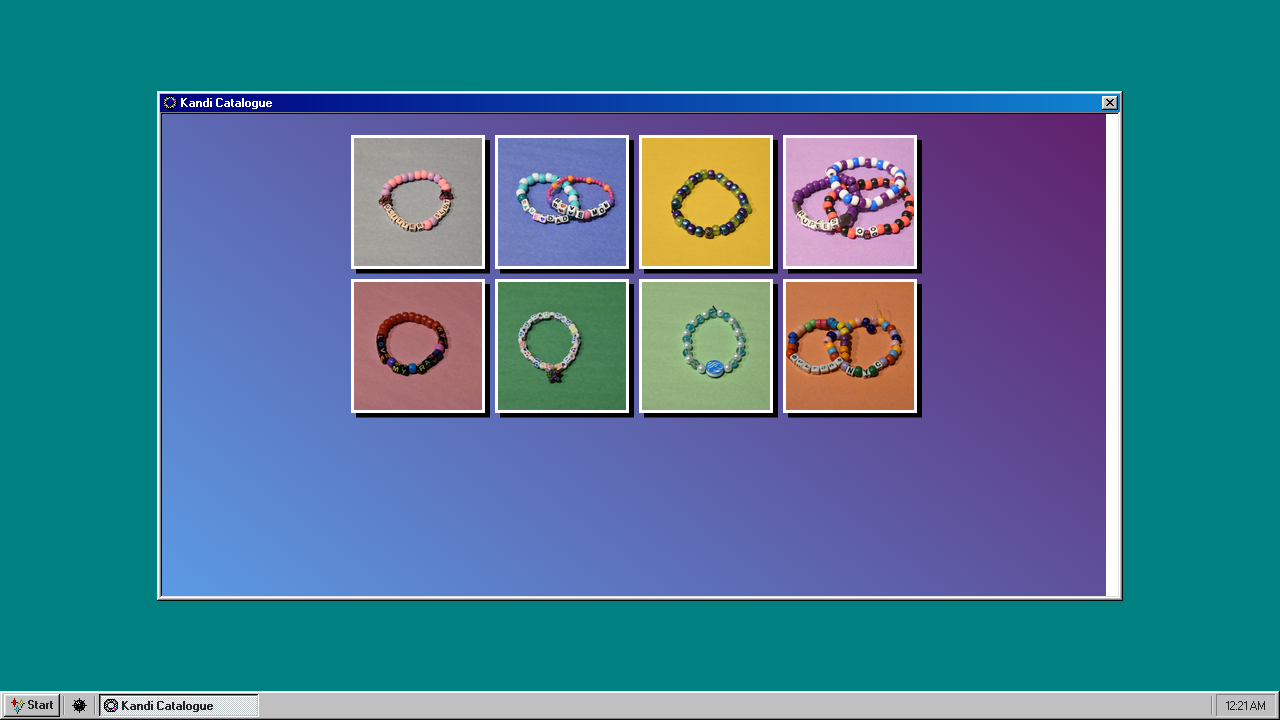
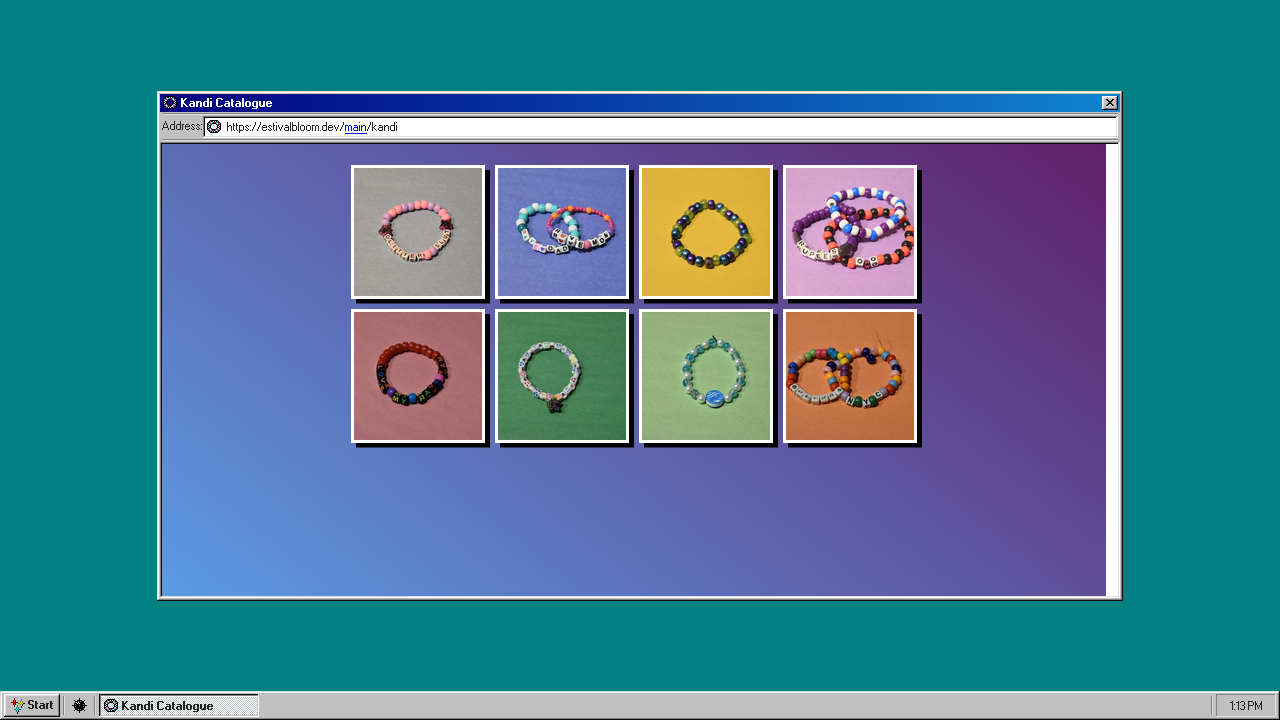
Adds photo of kandi; Updates gallery modal to support links in caption; Fixes taskbar update bug; Fixes live site address bar bug

Changed region(s): [[0.125, 0.1528, 0.875, 0.6417], [0.9688, 0.9778, 1.0, 1.0]]

diff --git a/src/components/address-bar/index.js b/src/components/address-bar/index.js
@@ -18,20 +18,19 @@ async function setup(style_src) {
 
 			this._icon_elem = shadow.querySelector('#icon');
 			const url = new URL(document.URL);
-			let route;
-			if (url.pathname.endsWith('.html')) {
-				route = url.pathname.slice(1, -5);
+			let route = url.pathname;
+			if (route.endsWith('.html')) {
+				route = route.slice(1, -5);
 			}
-			else {
-				route = `${url.pathname.slice(1)}index`
+			if (route.startsWith('/')) {
+				route = route.slice(1);
 			}
-			const routeInfo = routeObjs.find(e => e.path === route);
+			const routeInfo = routeObjs.find(e => e.path === route || e.path === `${route}index`);
 			const parts = []
 			for(let currentInfo = routeMap.get(routeInfo.parent); currentInfo; currentInfo = routeMap.get(currentInfo.parent)) {
 				parts.push(currentInfo);
 			}
 			parts.reverse();
-			console.log(parts);
 			parts.forEach(e => {
 				const link = document.createElement('a');
 				link.href = `/${e.path}.html`;

diff --git a/index.html b/index.html
@@ -27,8 +27,8 @@
 			text-wrap: wrap;
 			box-sizing: border-box;
 			font-family: "Pixelated MS Sans Serif", Arial;
-			padding: 12px;
 			width: 444px;
+			padding: 0px 12px;
 		}
 
 		#main-window {
@@ -207,7 +207,7 @@
 				</div>
 			</a>
 			<a class="desktop-icon" aria-labelledby="bsky-text"
-				href="https://bsky.app/profile/estivalbloom.bsky.social">
+				href="https://bsky.app/profile/estivalbloom.dev">
 				<img src="/assets/icons/32/bsky-icon.png">
 				<div class="desktop-icon-overlay"></div>
 				<div id="bsky-text" class="desktop-icon-text">

diff --git a/vite.config.js b/vite.config.js
@@ -1,8 +1,8 @@
 import path from 'path'
 import { fileURLToPath } from 'node:url'
 import { defineConfig } from "vite"
-import { routes } from './src/route-info'
-import { og_plugin } from './src/plugins/opengraph-gen'
+import { routes } from './src/route-info.js'
+import { og_plugin } from './src/plugins/opengraph-gen.js'
 
 const __dirname = path.dirname(fileURLToPath(import.meta.url))
 

diff --git a/src/components/gallery/template.html b/src/components/gallery/template.html
@@ -81,6 +81,7 @@
 		#modal-caption {
 			text-wrap: wrap;
 			box-sizing: border-box;
+			padding: 12px;
 		}
 
 		#overlay {
@@ -113,7 +114,7 @@
 			</div>
 			<div id="modal-body" class="window-body">
 				<img id="modal-img">
-				<pre id="modal-caption"></pre>
+				<div id="modal-caption" class="fake-pre"></div>
 			</div>
 			<div id="modal-footer" class="status-bar">
 			</div>

diff --git a/src/components/gallery/index.js b/src/components/gallery/index.js
@@ -34,7 +34,7 @@ async function setup(style_src) {
 			this._modal.style.visibility = 'visible';
 			this._modal_title.textContent = info.name;
 			this._modal_img.src = image.src;
-			this._modal_caption.textContent = info.caption;
+			this._modal_caption.innerHTML = info.caption;
 			this._modal_caption.style.maxWidth = `${image.naturalWidth + 4}px`;
 			this._dialog.show();
 		}

diff --git a/preview-gen.js b/preview-gen.js
@@ -3,7 +3,7 @@ import { dirname, resolve } from 'node:path'
 import { fileURLToPath } from 'node:url'
 import * as fs from 'fs/promises';
 import { exit } from 'node:process';
-import { routes } from './vite.config.js';
+import { routes } from './src/route-info.js';
 import path from 'node:path';
 
 const __dirname = dirname(fileURLToPath(import.meta.url))

diff --git a/public/assets/style.css b/public/assets/style.css
@@ -175,6 +175,7 @@ h1, h2, h3, h4, h5, h6 {
 	background: #fff;
 	box-shadow: inset -1px -1px #fff, inset 1px 1px grey, inset -2px -2px #dfdfdf, inset 2px 2px #0a0a0a;
 	display: block;
+	padding: 3px;
 }
 
 #minesweeper-button {

diff --git a/src/window-manager.js b/src/window-manager.js
@@ -67,7 +67,7 @@ export default function() {
 
 	const observer_cfg = {
 		attributes: true,
-		attributeFilter: ['style', 'class'],
+		attributeFilter: ['style', 'class', 'aria-hidden'],
 		subtree: true,
 		childList: true
 	};

diff --git a/src/art.html b/src/art.html
@@ -71,7 +71,5 @@
 	</div>
 	<div is="minesweeper-dlg" id="minesweeper"></div>
 </body>
-
 <script type="module" src="/src/dn-alert/index.js"></script>
-
 </html>

diff --git a/src/components/address-bar/template.html b/src/components/address-bar/template.html
@@ -8,7 +8,6 @@
 			padding-right: 2px;
 		}
 		#field {
-			padding: 3px;
 			display: flex;
 			justify-content: start;
 			align-items: center;
